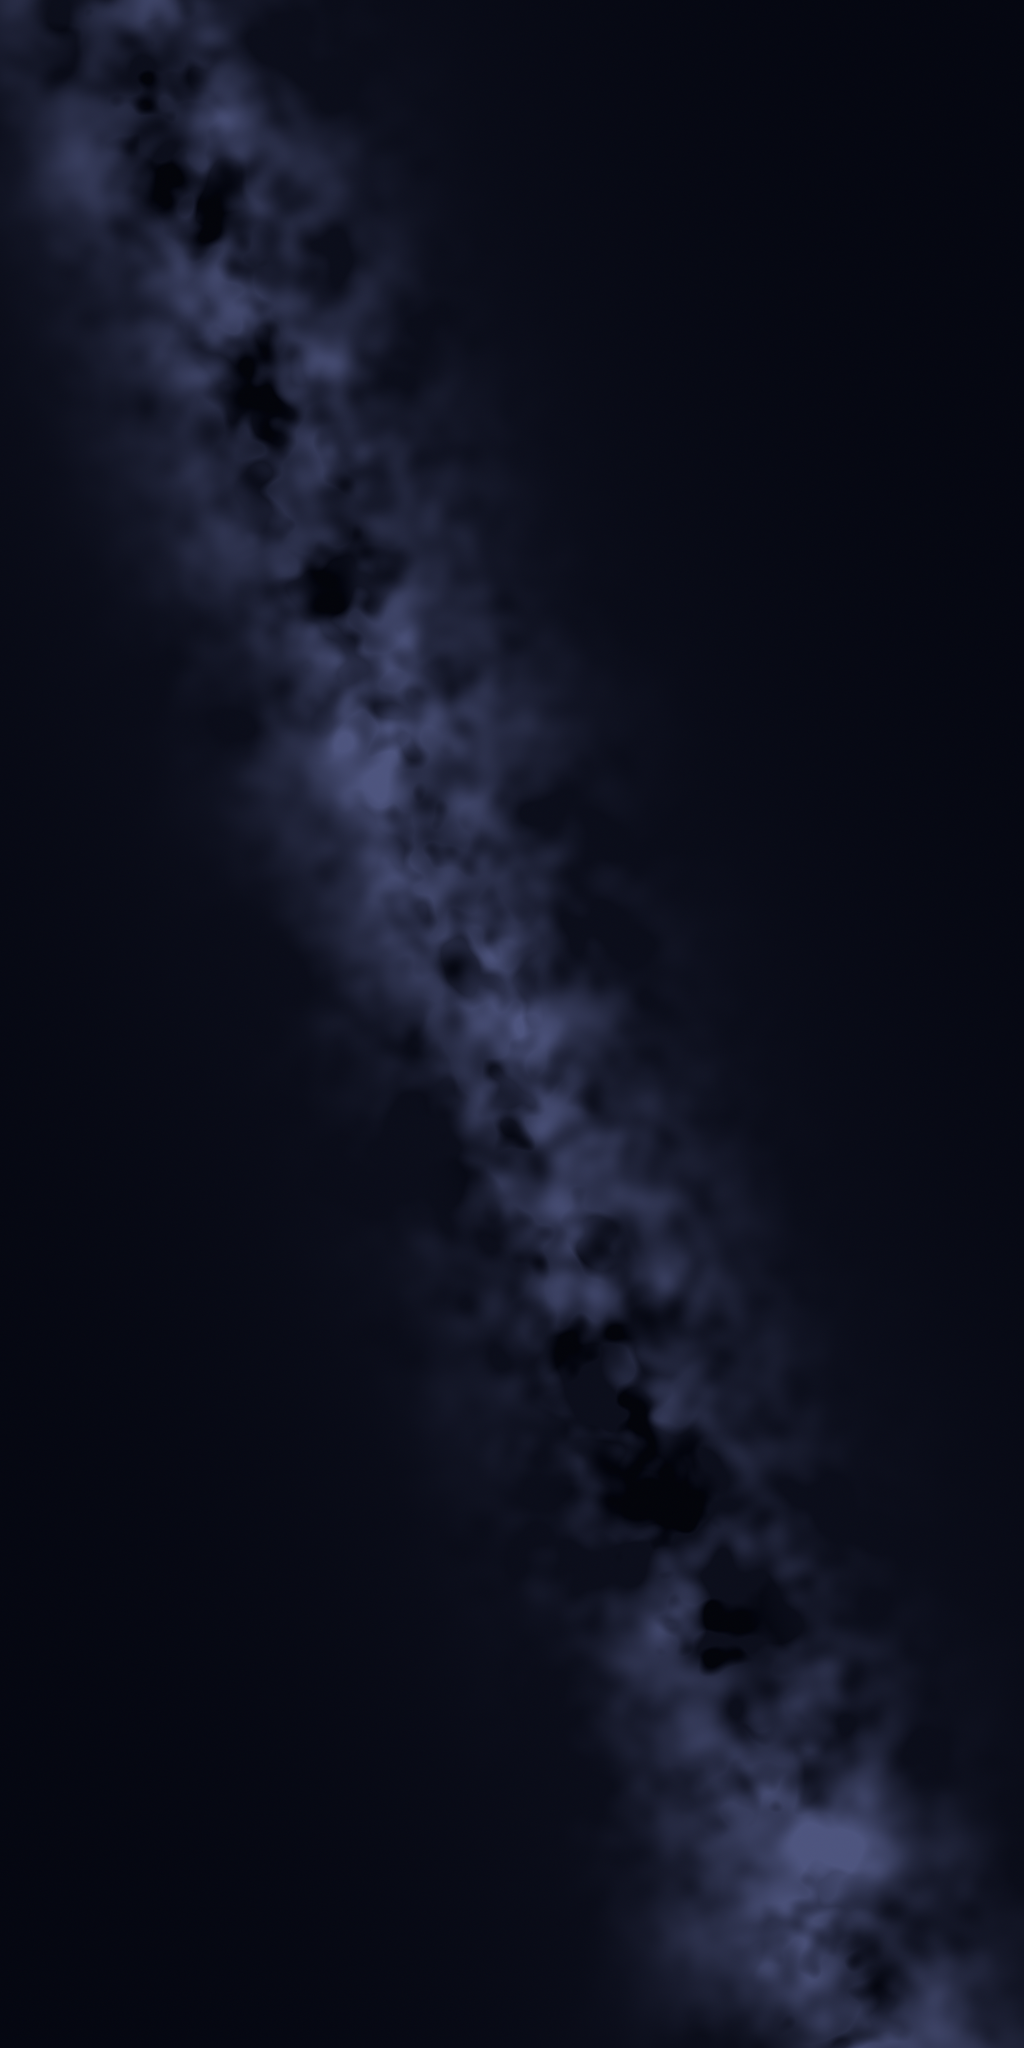
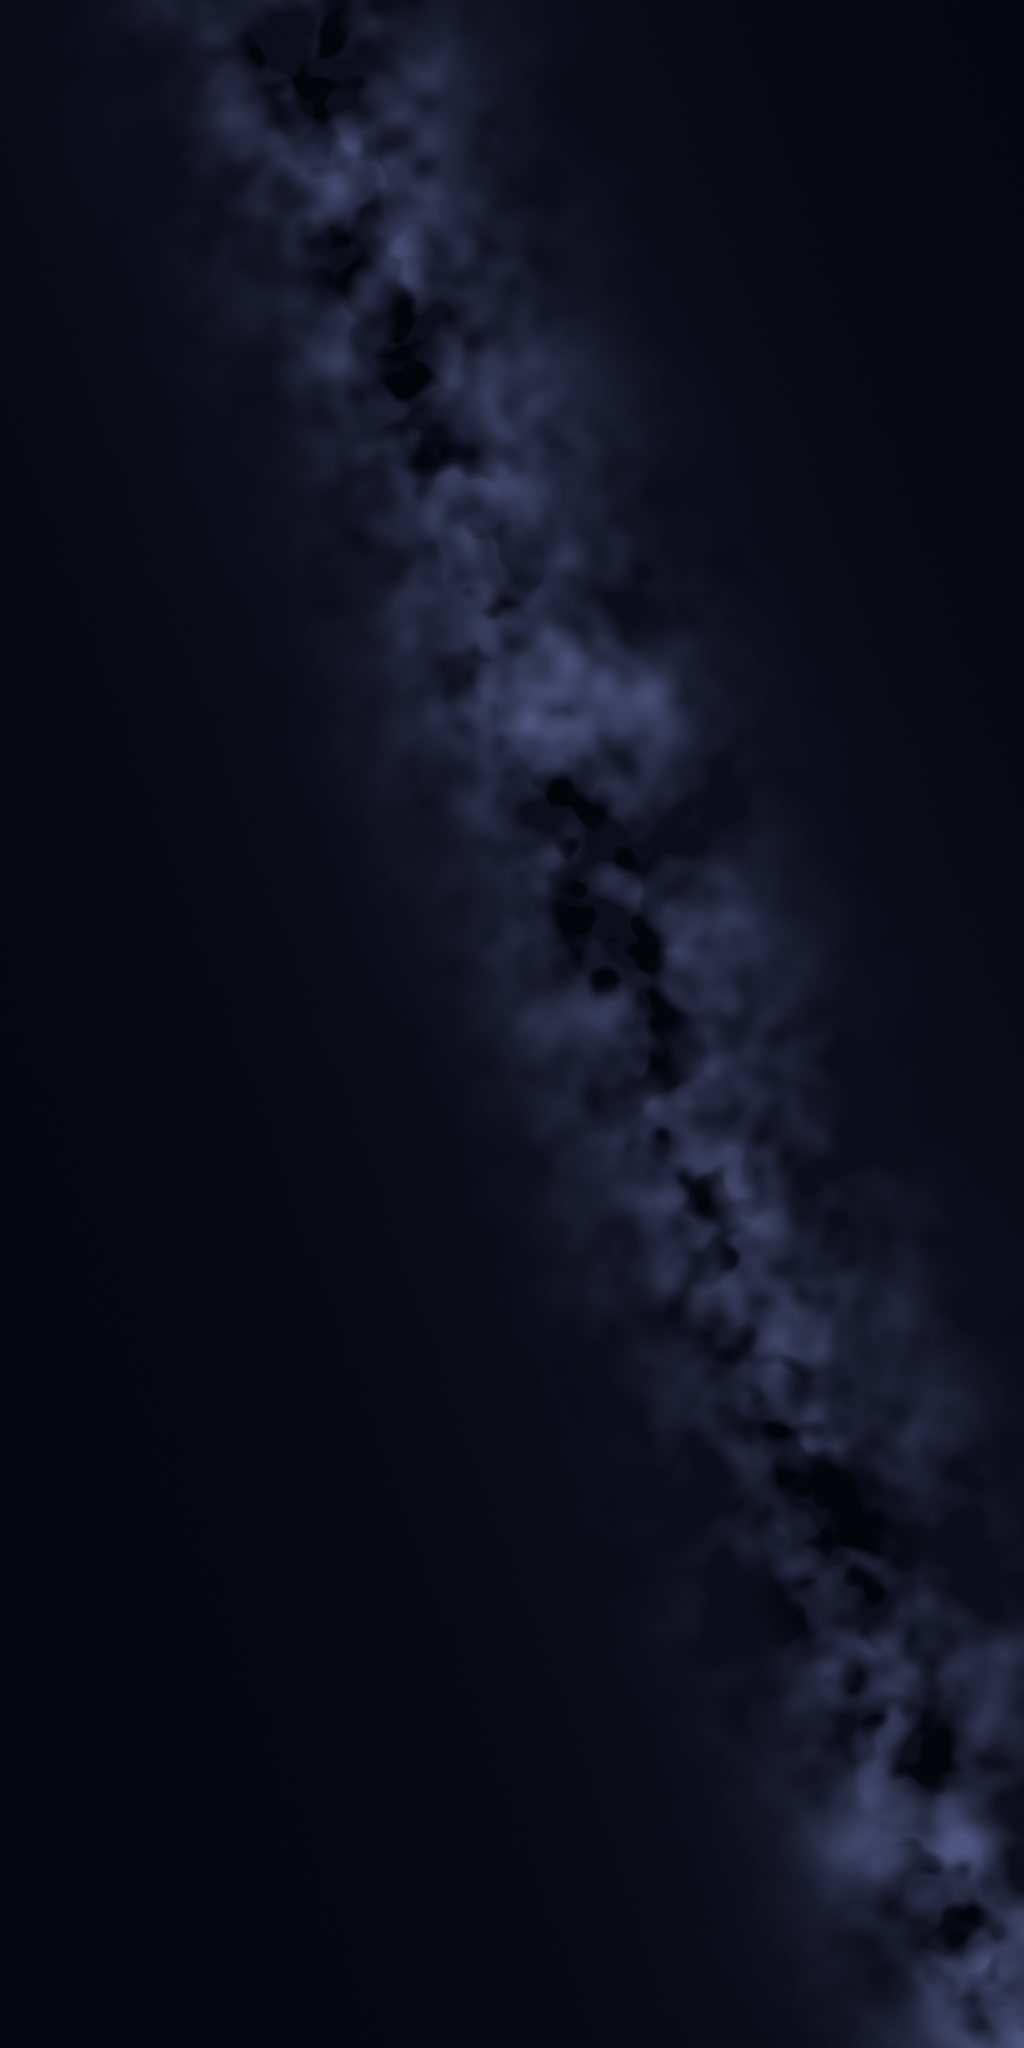
P03 承托：银河挪到硬币正下方，承托光改成带云絮纹理的蓝色薄雾
- 银河中线 BAND_CENTER 55 → 30（make_assets.py 与 StarField.bandDistance 同步），
  银河从硬币正下方斜穿过，影子压在银河亮带上看得见
- 地面承托光（ground_fade）重新放回场景，但改为：更暗（peak 0.13）、更蓝、更小，
  并加云絮纹理（radial_png 新增 mottle），不再是平滑光圈——没有平滑渐变就没有环纹
- ShadowTests：承托光亮度标准随新设计改为约 33
- 任务清单：P03 记为已过并写明两版经过；新增 P03b「硬币倒映夜空」；记录 B 硬币倒影的分析，
  P08 做完时提醒作者

第一版（平滑冷白光，peak 0.22）作者真机看太白、有环纹，已在本次替换。
第二版作者真机验收通过。

Claude-Session: https://claude.ai/code/session_01VdtNMW7gBPoCtHByyRCNsX

diff --git a/CoinFlipTests/ShadowTests.swift b/CoinFlipTests/ShadowTests.swift
@@ -30,13 +30,17 @@ final class ShadowTests: XCTestCase {
                 + "把 ground_fade 的颜色调亮、peak 按比例调低，黑底上的观感不变")
     }
 
-    /// 同时黑底上的光晕不能变——调亮颜色必须用降低不透明度来抵消
+    /// 黑底上承托光的亮度要守住：太亮又成了一团白光（P02 作者删掉过），
+    /// 太暗影子就没东西可压、又看不见了。
+    ///
+    /// P03 第二版定的是最亮通道约 33（第一版 56 作者嫌太白，原来的白色光晕约 80）。
+    /// 中心带云絮纹理，所以留的余量大一些。
+    /// 调亮颜色必须用降低不透明度来抵消，这个乘积才是眼睛看到的亮度。
     func testGroundGlowOnBlackIsUnchanged() throws {
         let (colour, alpha) = try groundCentre()
 
-        // 原来是 (74,76,84) × 0.95，最亮的通道约 80
-        XCTAssertEqual(colour * alpha, 80, accuracy: 12,
-                       "黑底上的光晕变了，地面的明暗观感会跟着变")
+        XCTAssertEqual(colour * alpha, 33, accuracy: 20,
+                       "黑底上的承托光亮度变了，影子的可见度和整体观感会跟着变")
     }
 
     /// 读出地面贴图正中心的颜色与不透明度（取最亮的通道）

diff --git a/CoinFlip/Scene/CoinSceneView.swift b/CoinFlip/Scene/CoinSceneView.swift
@@ -256,9 +256,11 @@ struct CoinSceneView: View {
             let coin = makeCoin()
             coin.name = "coin"
             content.add(coin)
-            // 地面那圈白色光晕（ground_fade）P02 起不再放：作者决定删掉，只留影子。
-            // 有了银河背景，影子压在星空上照样看得见，不再需要一片亮地来衬它。
-            // 顺带：横切灰边（§2.5）和 P01 的环纹都出在这片光晕上，一并没了。
+            // 硬币底下的承托光（P03 方案 A）。
+            // P02 曾把原来那圈白色光晕删掉，结果影子跟着看不见了——
+            // 影子只能把亮的东西压暗，底下全是暗的星空就没东西可压，硬币也像飘着。
+            // 现在加回来的是一小片冷蓝银色的暗光，和银河一个色调（见 make_assets.py）。
+            content.add(GroundShadow.makeGround())
 
             let shadow = GroundShadow.makeShadow()
             content.add(shadow)

diff --git a/CoinFlip/Scene/StarField.swift b/CoinFlip/Scene/StarField.swift
@@ -134,7 +134,9 @@ enum StarField {
     /// ★ 和 make_assets.py 的 band_distance 是同一个公式，改一边必须改另一边。★
     static func bandDistance(down: Float, side: Float) -> Float {
         let slope: Float = 0.32
-        return (side - slope * (down - 55)) / (1 + slope * slope).squareRoot()
+        // 30：远景里硬币正后方，银河从硬币正下方穿过，影子压在银河上（P03）
+        let center: Float = 30
+        return (side - slope * (down - center)) / (1 + slope * slope).squareRoot()
     }
 
     /// 由两个角度（度）得到方向。
